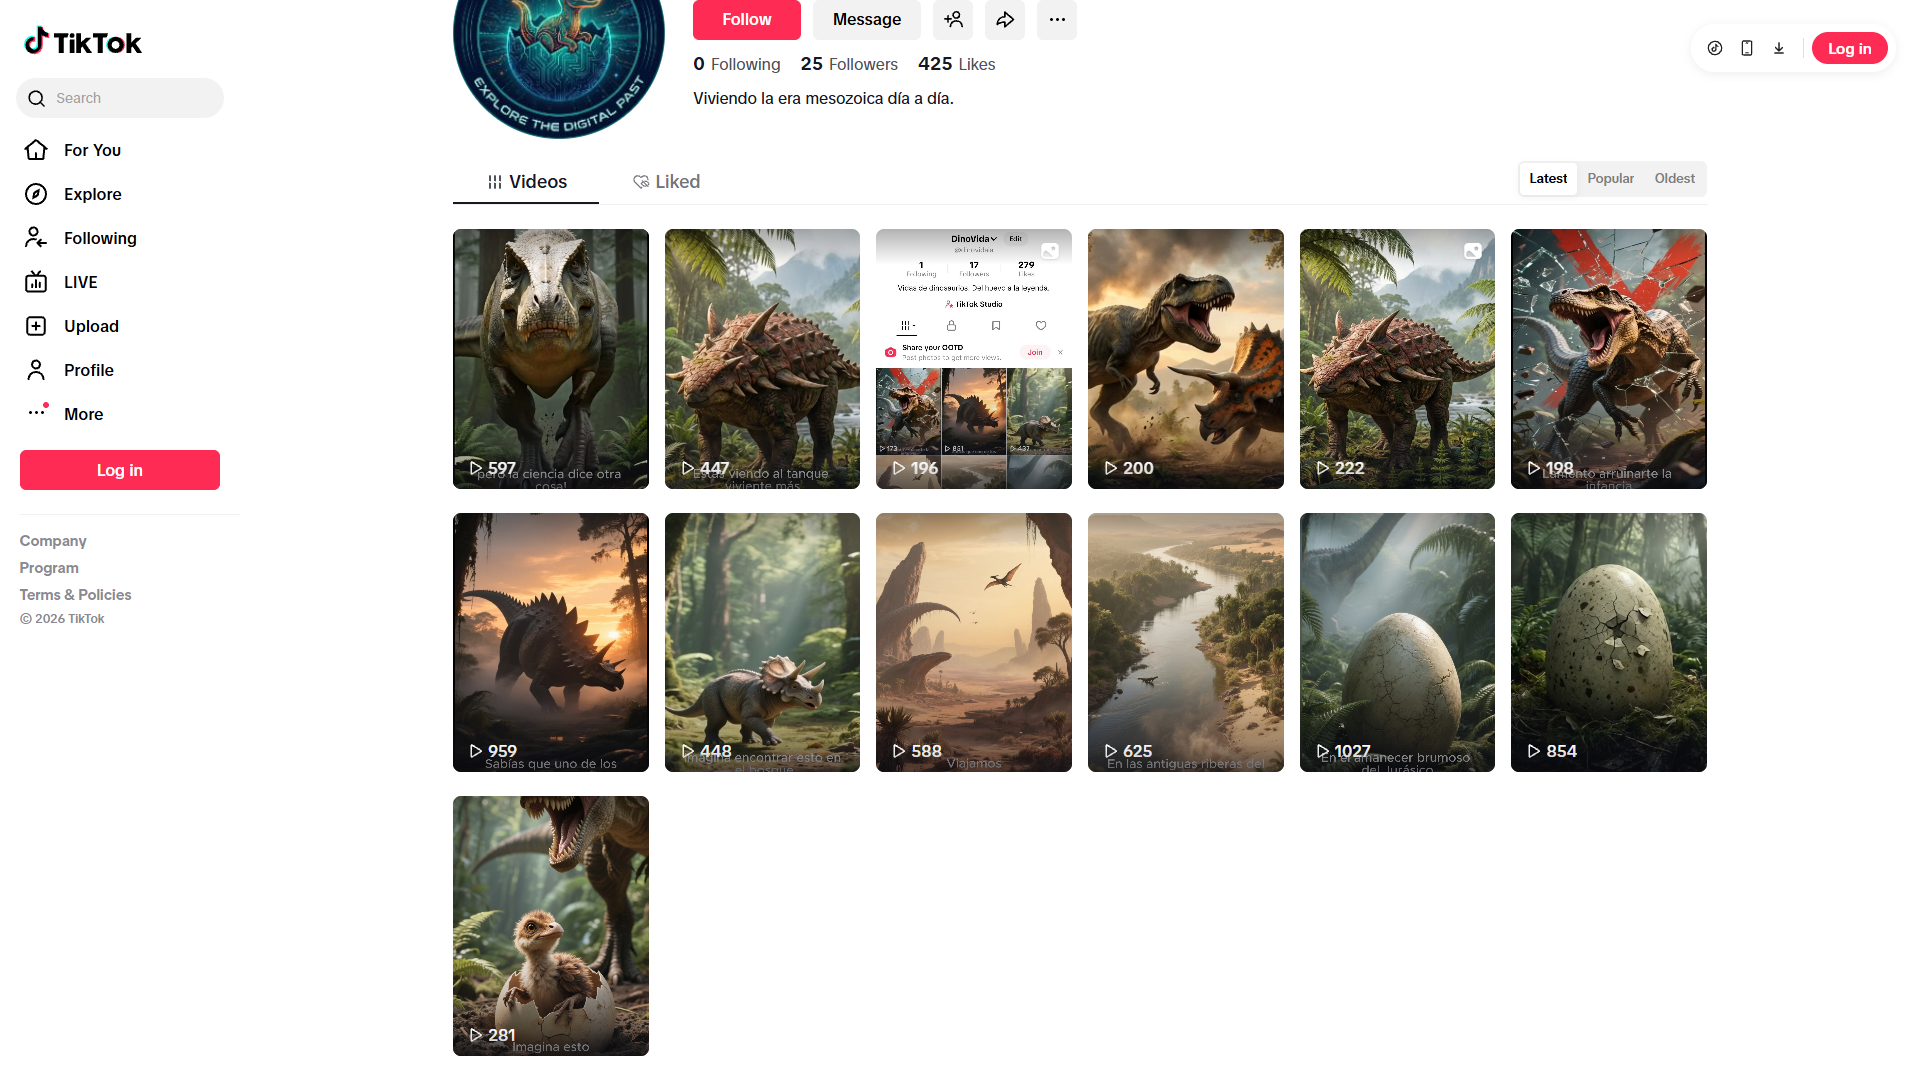
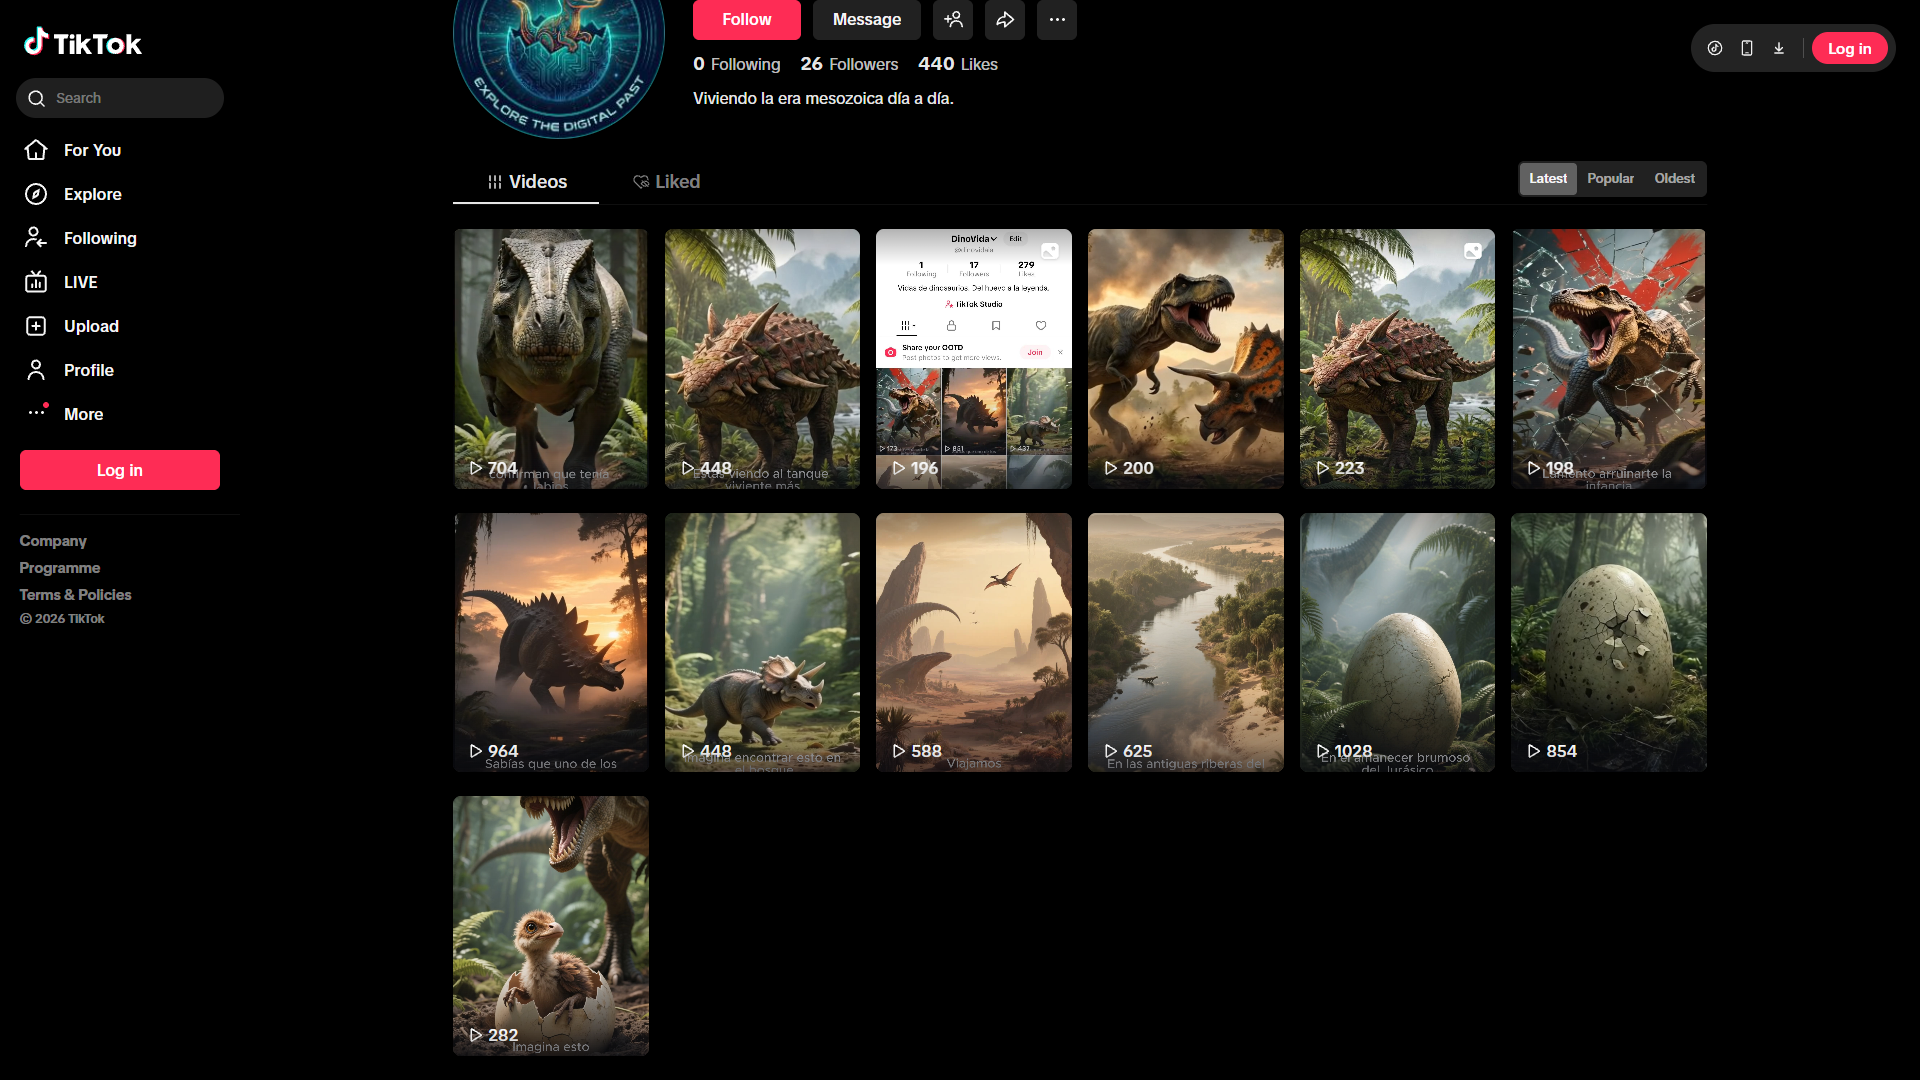
prueba carrusel

diff --git a/.agent/skills/gestor-ideas/manage_ideas.js b/.agent/skills/gestor-ideas/manage_ideas.js
@@ -1,0 +1,67 @@
+const XLSX = require('xlsx');
+const fs = require('fs');
+const path = require('path');
+
+const args = process.argv.slice(2);
+const action = args[0];
+const filePath = args[1];
+const ideaText = args[2]; // Only for 'add'
+
+if (!action || !filePath) {
+    console.error("Usage: node manage_ideas.js <action> <file_path> [idea]");
+    process.exit(1);
+}
+
+// Ensure absolute path
+const absolutePath = path.resolve(filePath);
+
+if (!fs.existsSync(absolutePath)) {
+    console.error(`File not found: ${absolutePath}`);
+    process.exit(1);
+}
+
+const workbook = XLSX.readFile(absolutePath);
+const sheetName = 'carrusel';
+
+// Check if sheet exists
+if (!workbook.Sheets[sheetName]) {
+    // Create sheet
+    const headers = [['ID', 'Idea', 'Estado', 'Fecha']];
+    const newWorksheet = XLSX.utils.aoa_to_sheet(headers);
+    XLSX.utils.book_append_sheet(workbook, newWorksheet, sheetName);
+    XLSX.writeFile(workbook, absolutePath);
+    console.log(`Created sheet '${sheetName}' in ${absolutePath}`);
+}
+
+const worksheet = workbook.Sheets[sheetName];
+const data = XLSX.utils.sheet_to_json(worksheet);
+
+if (action === 'list') {
+    console.log(JSON.stringify(data, null, 2));
+} else if (action === 'add') {
+    if (!ideaText) {
+        console.error("Missing idea text");
+        process.exit(1);
+    }
+    
+    // Check if idea already exists (simple string match)
+    const exists = data.some(row => row.Idea && row.Idea.toLowerCase() === ideaText.toLowerCase());
+    if (exists) {
+        console.log(JSON.stringify({ status: 'exists', message: 'Idea already exists' }));
+    } else {
+        const newId = data.length + 1;
+        const newRow = {
+            ID: newId,
+            Idea: ideaText,
+            Estado: 'Pendiente',
+            Fecha: new Date().toISOString().split('T')[0]
+        };
+        
+        XLSX.utils.sheet_add_json(worksheet, [newRow], { skipHeader: true, origin: -1 });
+        XLSX.writeFile(workbook, absolutePath);
+        console.log(JSON.stringify({ status: 'success', message: 'Idea added', data: newRow }));
+    }
+} else {
+    console.error("Unknown action");
+    process.exit(1);
+}

diff --git a/.agent/workflows/carrusel-tiktok-dinos.md b/.agent/workflows/carrusel-tiktok-dinos.md
@@ -1,0 +1,54 @@
+---
+description: Genera un guion y prompts para un carrusel de imágenes en TikTok sobre dinosaurios, asegurando originalidad usando una base de datos Excel.
+---
+
+# Generación de Carrusel TikTok de Dinosaurios
+
+Este workflow te guía para crear contenido de carrusel (Solo imágenes/texto) para TikTok, verificando que el tema no se haya usado antes.
+
+## Paso 1: Inicializar y Verificar Base de Datos
+Primero, aseguramos que la hoja de registro exista y leemos las ideas pasadas.
+
+1. Verifica las ideas existentes:
+```bash
+node .agent/skills/gestor-ideas/manage_ideas.js list "c:\Users\Kevin Mejia\Documents\GitHub\promts_dinos\plantilla_dinosaurios_100.xlsx"
+```
+
+## Paso 2: Generación de Ideas
+Basado en la lista anterior (si hay), genera 5 nuevas ideas creativas para carruseles de dinosaurios.
+Considera temas como:
+- Tipos específicos (voladores, marinos, acorazados).
+- Comparaciones (Película vs Realidad).
+- Curiosidades (¿Dinosaurios con plumas? ¿Dinos "roedores"?).
+- Top 5 o Top 10.
+
+**Instrucción para el Agente:**
+- Analiza la salida JSON del paso 1.
+- Propón 5 ideas nuevas que NO estén en esa lista.
+- Presenta las opciones al usuario para que elija una.
+
+## Paso 3: Desarrollo del Contenido
+Una vez que el usuario elija una idea:
+
+1. **Estructura del Carrusel:**
+   - **Diapositiva 1 (Gancho):** Título impactante y visualmente atractivo.
+   - **Diapositivas 2-X (Cuerpo):** Información curiosa, imágenes impactantes, texto breve y legible.
+   - **Diapositiva Final (CTA):** Llamado a la acción (Sígueme, comenta, comparte).
+
+2. **Generación de Prompts:**
+   - Para cada diapositiva, genera un prompt detallado para generar la imagen (puedes usar la skill `experto-dinosaurios` si necesitas precisión científica).
+   - Genera el texto que irá superpuesto en la imagen o en la descripción.
+
+## Paso 4: Registrar la Idea
+Guarda la idea seleccionada en la base de datos para futuras referencias.
+
+```bash
+node .agent/skills/gestor-ideas/manage_ideas.js add "c:\Users\Kevin Mejia\Documents\GitHub\promts_dinos\plantilla_dinosaurios_100.xlsx" "<IDEA_SELECCIONADA>"
+```
+*(Reemplaza <IDEA_SELECCIONADA> con el título de la idea que el usuario aprobó)*
+
+## Paso 5: Entrega Final
+Presenta el guion completo del carrusel en formato Markdown tabla para facilitar su uso.
+| # Slide | Texto en Imagen | Descripción/Voz en Off (Opcional) | Prompt de Imagen |
+|---------|-----------------|-----------------------------------|------------------|
+| 1       | ...             | ...                               | ...              |

diff --git a/.agent/skills/gestor-ideas/SKILL.md b/.agent/skills/gestor-ideas/SKILL.md
@@ -1,0 +1,38 @@
+---
+name: gestor-ideas
+description: Gestiona una base de datos de ideas en Excel (hoja 'carrusel') para evitar contenido repetido.
+---
+
+# Gestor de Ideas
+
+Esta habilidad permite leer y escribir ideas en un archivo Excel, específicamente en la hoja 'carrusel', para asegurar que el contenido no se repita.
+
+## Comandos Disponibles
+
+Esta skill funciona ejecutando un script de Node.js ubicado en este directorio.
+
+### 1. Listar Ideas Existentes
+Recupera todas las ideas almacenadas en la base de datos.
+
+```bash
+node .agent/skills/gestor-ideas/manage_ideas.js list <ruta_archivo_excel>
+```
+
+### 2. Agregar Nueva Idea
+Añade una nueva idea a la base de datos si no existe duplicada.
+
+```bash
+node .agent/skills/gestor-ideas/manage_ideas.js add <ruta_archivo_excel> "<texto_de_la_idea>"
+```
+
+## Ejemplo de Uso en Workflow
+
+Cuando necesites generar contenido nuevo y verificar que no se repita:
+
+1. Ejecuta el comando `list` para obtener las ideas previas.
+2. Pídele al LLM que genere nuevas ideas, excluyendo las listadas.
+3. Una vez seleccionada una idea, ejecuta el comando `add` para registrarla.
+
+## Requisitos
+- Node.js instalado.
+- Dependencias instaladas en esta carpeta (`npm install`).
